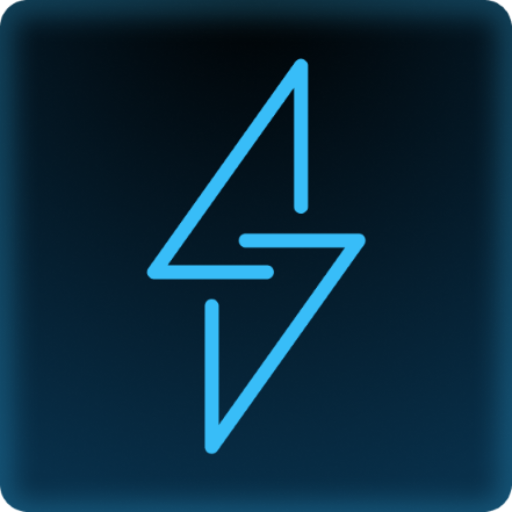
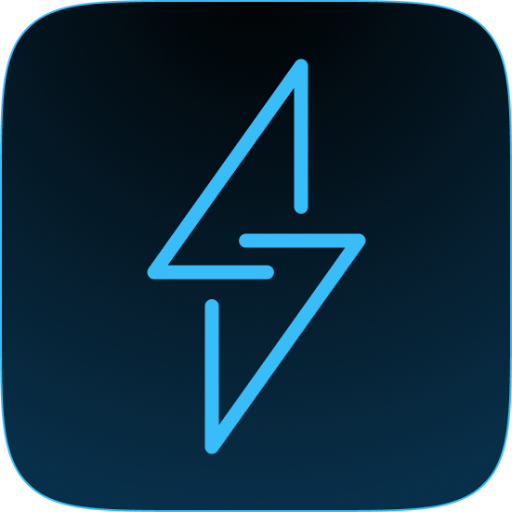
update social media links and improve footer layout + minor adjustment to the images

Changed region(s): [[0.0, 0.0, 1.0, 1.0]]

diff --git a/apps/website/components/Footer.tsx b/apps/website/components/Footer.tsx
@@ -1,14 +1,88 @@
 import Link from "next/link";
 import React from "react";
 import { ArrowSquareOutIcon } from "@phosphor-icons/react";
+import Image from "next/image";
 
 export default function Footer() {
   return (
     <div className="mt-10 w-full">
       <div className="px-5 pb-5 max-w-5xl mx-auto flex flex-col justify-center items-center text-text">
-        <div className="w-full">
-          <div className="flex flex-wrap sm:gap-10 md:flex-row md:gap-20 gap-6 justify-between">
-            <div className="flex flex-col gap-2">
+        <div className="w-full flex flex-col md:flex-row gap-6 justify-center items-center md:items-start md:justify-between">
+          <div className="flex flex-col gap-3 w-96">
+            <Image
+              src="/linkwarden.png"
+              className="w-56 h-fit mx-auto md:mx-0"
+              width={640}
+              height={136}
+              alt=""
+              priority
+            />
+            <p className="text-center md:text-left">
+              Collect, read, annotate, and fully preserve what matters, all in
+              one place.
+            </p>
+
+            <div className="w-full mt-6 md:block hidden">
+              <div className="flex justify-center md:justify-start gap-4">
+                <Link
+                  href="https://discord.gg/CtuYV47nuJ"
+                  target="_blank"
+                  className="text-lg h-8 w-8 duration-100 hover:opacity-80 flex items-center justify-center"
+                  title="Discord"
+                >
+                  <i className="fa-brands fa-discord"></i>
+                </Link>
+
+                <Link
+                  href="https://fosstodon.org/@linkwarden"
+                  target="_blank"
+                  rel="me"
+                  className="text-lg h-8 w-8 duration-100 hover:opacity-80 flex items-center justify-center"
+                  title="Mastodon"
+                >
+                  <i className="fa-brands fa-mastodon"></i>
+                </Link>
+
+                <Link
+                  href="https://twitter.com/LinkwardenHQ"
+                  target="_blank"
+                  className="text-lg h-8 w-8 duration-100 hover:opacity-80 flex items-center justify-center"
+                  title="X (Twitter)"
+                >
+                  <i className="fa-brands fa-x-twitter"></i>
+                </Link>
+
+                <Link
+                  href="https://www.linkedin.com/company/linkwarden"
+                  target="_blank"
+                  className="text-lg h-8 w-8 duration-100 hover:opacity-80 flex items-center justify-center"
+                  title="LinkedIn"
+                >
+                  <i className="fa-brands fa-linkedin"></i>
+                </Link>
+
+                <Link
+                  href="https://bsky.app/profile/linkwarden.bsky.social"
+                  target="_blank"
+                  className="text-lg h-8 w-8 duration-100 hover:opacity-80 flex items-center justify-center"
+                  title="Bluesky"
+                >
+                  <i className="fa-brands fa-bluesky"></i>
+                </Link>
+
+                <Link
+                  href="https://github.com/linkwarden/linkwarden"
+                  target="_blank"
+                  className="text-lg h-8 w-8 duration-100 hover:opacity-80 flex items-center justify-center"
+                  title="GitHub"
+                >
+                  <i className="fa-brands fa-github"></i>
+                </Link>
+              </div>
+            </div>
+          </div>
+          <div className="flex sm:gap-10 md:flex-row md:gap-20 gap-6">
+            <div className="flex flex-col gap-2 text-center md:text-left">
               <h3 className="text-lg font-semibold">Product</h3>
               <Link
                 href="https://linkwarden.app/#features"
@@ -30,55 +104,22 @@ export default function Footer() {
               </Link>
               <Link
                 href="https://linkwarden.app/blog"
-                className="hover:opacity-80 duration-100 text-text flex items-center gap-1"
+                className="duration-100 hover:opacity-80"
               >
                 Blog
               </Link>
               <Link
                 href="https://docs.linkwarden.app"
                 target="_blank"
-                className="hover:opacity-80 duration-100 text-text flex items-center gap-1"
+                className="hover:opacity-80 duration-100 flex items-center gap-1 mx-auto md:mx-0"
               >
                 Docs
-                <ArrowSquareOutIcon size={16} />
+                <ArrowSquareOutIcon size={16} className="w-fit" />
               </Link>
             </div>
 
-            <div className="flex flex-col gap-2">
-              <h3 className="text-lg font-semibold">Social</h3>
-              <Link
-                href="https://discord.gg/CtuYV47nuJ"
-                target="_blank"
-                className="duration-100 hover:opacity-80"
-              >
-                Discord
-              </Link>
-              <Link
-                href="https://fosstodon.org/@linkwarden"
-                target="_blank"
-                rel="me"
-                className="duration-100 hover:opacity-80"
-              >
-                Mastodon
-              </Link>
-              <Link
-                href="https://twitter.com/LinkwardenHQ"
-                target="_blank"
-                className="duration-100 hover:opacity-80"
-              >
-                Twitter
-              </Link>
-              <Link
-                href="https://github.com/linkwarden/linkwarden"
-                target="_blank"
-                className="duration-100 hover:opacity-80"
-              >
-                GitHub
-              </Link>
-            </div>
-
-            <div className="flex flex-col gap-2">
-              <h3 className="text-lg font-semibold">Comparison</h3>
+            <div className="flex flex-col gap-2 text-center md:text-left">
+              <h3 className="text-lg font-semibold">Compare</h3>
               <Link
                 href="https://linkwarden.app/compare/linkwarden-vs-bookmarks"
                 className="duration-100 hover:opacity-80"
@@ -107,12 +148,13 @@ export default function Footer() {
           </div>
         </div>
 
-        <div className="w-full mt-6">
+        <div className="w-full mt-6 md:hidden">
           <div className="flex justify-center gap-4">
             <Link
               href="https://discord.gg/CtuYV47nuJ"
               target="_blank"
               className="text-lg h-8 w-8 duration-100 hover:opacity-80 flex items-center justify-center"
+              title="Discord"
             >
               <i className="fa-brands fa-discord"></i>
             </Link>
@@ -122,6 +164,7 @@ export default function Footer() {
               target="_blank"
               rel="me"
               className="text-lg h-8 w-8 duration-100 hover:opacity-80 flex items-center justify-center"
+              title="Mastodon"
             >
               <i className="fa-brands fa-mastodon"></i>
             </Link>
@@ -130,14 +173,34 @@ export default function Footer() {
               href="https://twitter.com/LinkwardenHQ"
               target="_blank"
               className="text-lg h-8 w-8 duration-100 hover:opacity-80 flex items-center justify-center"
+              title="X (Twitter)"
             >
               <i className="fa-brands fa-x-twitter"></i>
+            </Link>
+
+            <Link
+              href="https://www.linkedin.com/company/linkwarden"
+              target="_blank"
+              className="text-lg h-8 w-8 duration-100 hover:opacity-80 flex items-center justify-center"
+              title="LinkedIn"
+            >
+              <i className="fa-brands fa-linkedin"></i>
+            </Link>
+
+            <Link
+              href="https://bsky.app/profile/linkwarden.bsky.social"
+              target="_blank"
+              className="text-lg h-8 w-8 duration-100 hover:opacity-80 flex items-center justify-center"
+              title="Bluesky"
+            >
+              <i className="fa-brands fa-bluesky"></i>
             </Link>
 
             <Link
               href="https://github.com/linkwarden/linkwarden"
               target="_blank"
               className="text-lg h-8 w-8 duration-100 hover:opacity-80 flex items-center justify-center"
+              title="GitHub"
             >
               <i className="fa-brands fa-github"></i>
             </Link>

diff --git a/apps/website/pages/compare/index.tsx b/apps/website/pages/compare/index.tsx
@@ -3,8 +3,8 @@ import Link from "next/link";
 
 export default function BookmarksVsLinkwarden() {
   return (
-    <div className="max-w-4xl mx-auto px-4 py-8 pt-32 flex flex-col justify-between min-h-screen">
-      <h1 className="text-4xl font-light mb-20 text-center">Comparison</h1>
+    <div className="max-w-4xl mx-auto px-4 py-8 pt-32 flex flex-col justify-between min-h-">
+      <h1 className="text-4xl font-light mb-20 text-center">Compare</h1>
 
       <div>
         <p className="text-lg mb-5">
@@ -16,7 +16,7 @@ export default function BookmarksVsLinkwarden() {
           {[
             {
               href: "https://linkwarden.app/compare/linkwarden-vs-bookmarks",
-              label: "Browser Bookmarks vs Linkwarden",
+              label: "Browser bookmarks vs Linkwarden",
             },
             {
               href: "https://linkwarden.app/compare/linkwarden-vs-pocket",
@@ -34,7 +34,7 @@ export default function BookmarksVsLinkwarden() {
             <Link
               key={link.href}
               href={link.href}
-              className="block w-full text-center bg-slate-800 hover:bg-slate-700 transition-colors rounded px-6 py-3 text-lg font-medium shadow-sm hover:shadow-md"
+              className="block w-full text-center bg-neutral-800 hover:bg-neutral-700 transition-colors rounded px-6 py-3 text-lg font-medium shadow-sm hover:shadow-md"
             >
               {link.label}
             </Link>

diff --git a/apps/website/pages/_document.tsx b/apps/website/pages/_document.tsx
@@ -27,10 +27,11 @@ export default function Document() {
           rel="stylesheet"
           href="https://fonts.googleapis.com/css2?family=Material+Symbols+Rounded:opsz,wght,FILL,GRAD@48,400,1,0"
         />
+
         <link
           rel="stylesheet"
-          href="https://cdnjs.cloudflare.com/ajax/libs/font-awesome/6.4.2/css/all.min.css"
-          integrity="sha512-z3gLpd7yknf1YoNbCzqRKc4qyor8gaKU1qmn+CShxbuBusANI9QpRohGBreCFkKxLhei6S9CQXFEbbKuqLg0DA=="
+          href="https://cdnjs.cloudflare.com/ajax/libs/font-awesome/6.7.2/css/all.min.css"
+          integrity="sha512-Evv84Mr4kqVGRNSgIGL/F/aIDqQb7xQ2vcrdIwxfjThSH8CSR7PBEakCr51Ck+w+/U6swU2Im1vVX0SVk9ABhg=="
           crossOrigin="anonymous"
           referrerPolicy="no-referrer"
         />

diff --git a/apps/blog/docusaurus.config.js b/apps/blog/docusaurus.config.js
@@ -128,8 +128,16 @@ const config = {
                 to: "https://fosstodon.org/@linkwarden",
               },
               {
-                label: "Twitter",
-                to: "https://twitter.com/LinkwardenHQ",
+                label: "X (Twitter)",
+                to: "https://x.com/LinkwardenHQ",
+              },
+              {
+                label: "LinkedIn",
+                to: "https://www.linkedin.com/company/linkwarden",
+              },
+              {
+                label: "Bluesky",
+                to: "https://bsky.app/profile/linkwarden.bsky.social",
               },
               {
                 label: "GitHub",

diff --git a/apps/website/components/Navbar.tsx b/apps/website/components/Navbar.tsx
@@ -42,8 +42,8 @@ export default function Navbar() {
               <Image
                 src="/linkwarden.png"
                 className="w-40"
-                width={453}
-                height={96}
+                width={640}
+                height={136}
                 alt=""
                 onClick={() => {
                   if (isMenuOpen) toggleMenu();

diff --git a/apps/website/pages/compare/linkwarden-vs-bookmarks.tsx b/apps/website/pages/compare/linkwarden-vs-bookmarks.tsx
@@ -6,7 +6,7 @@ export default function BookmarksVsLinkwarden() {
   return (
     <div className="max-w-4xl mx-auto px-4 py-8 pt-32">
       <h1 className="text-4xl font-light mb-20 text-center">
-        Browser Bookmarks vs. Linkwarden
+        Browser bookmarks vs. Linkwarden
       </h1>
 
       <p className="text-lg mb-5">
